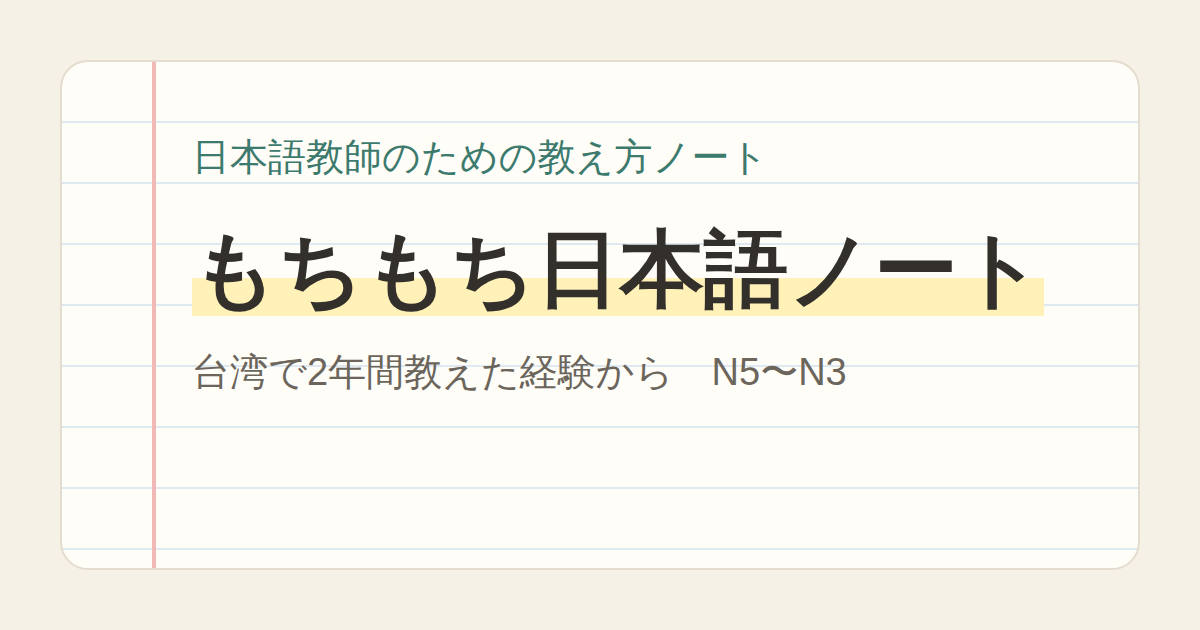
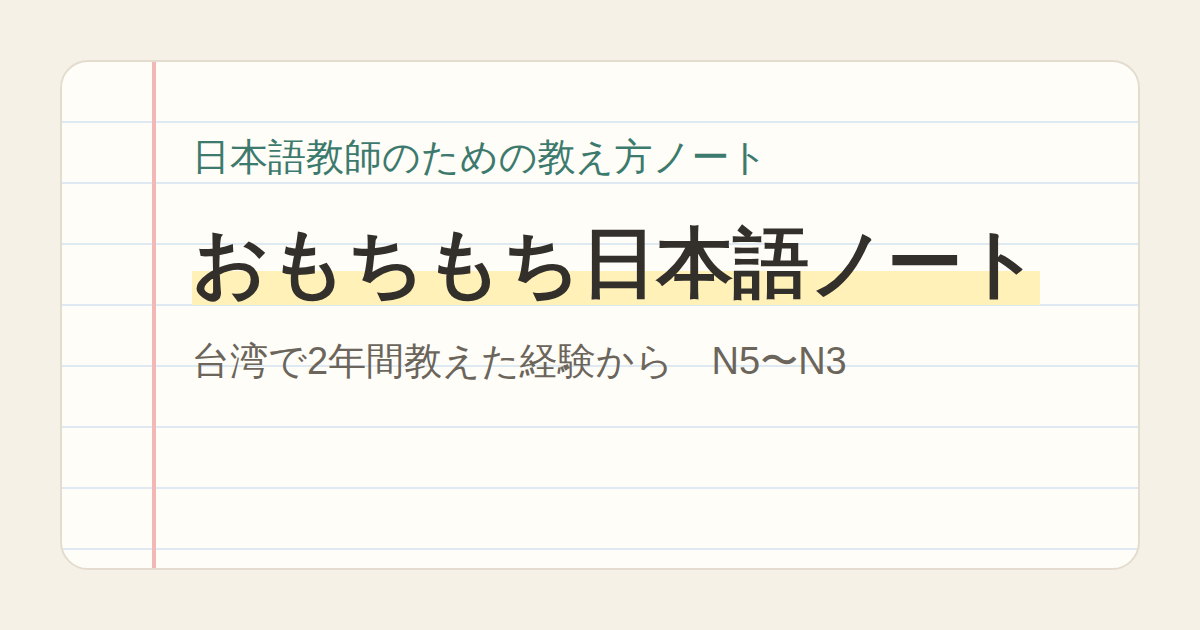
サイト名を「おもちもち日本語ノート」に変更、noteのURLを設定、お問い合わせページを削除
Claude-Session: https://claude.ai/code/session_01T9iH8PFxviiMcQB7m6nUoC

Changed region(s): [[0.1542, 0.3619, 0.8942, 0.5127], [0.1542, 0.5429, 0.555, 0.6333], [0.5858, 0.5429, 0.7092, 0.6333]]

diff --git a/src/config.ts b/src/config.ts
@@ -1,16 +1,14 @@
 // ここを書きかえると、サイト全体に反映されます
 
 export const SITE = {
-  name: 'もちもち日本語ノート',
+  name: 'おもちもち日本語ノート',
   tagline: '台湾で2年間教えた日本語教師の「教え方」ノート',
   description:
     '台湾で2年間日本語を教えた経験から、N5〜N3文法の教え方と、学習者がつまずきやすいポイントを紹介します。新人の先生、海外で教える先生向けのサイトです。',
   author: 'おもち',
   lang: 'ja',
-  // noteのURL（決まったらここに入れる。空のときは「準備中」と表示）
-  noteUrl: '',
-  // お問い合わせフォームのURL（Googleフォームなど。空のときは「準備中」と表示）
-  contactFormUrl: '',
+  // noteのURL（空のときは「準備中」と表示）
+  noteUrl: 'https://note.com/omochimochis_jp',
   // Googleアドセンスのパブリッシャーid（例: ca-pub-1234567890）。空なら広告は出ません
   adsenseClient: '',
 };

diff --git a/README.md b/README.md
@@ -1,4 +1,4 @@
-# もちもち日本語ノート
+# おもちもち日本語ノート
 
 台湾で2年間日本語を教えた日本語教師・おもちのサイトです。
 
@@ -18,7 +18,6 @@
 
 - サイトの名前、説明文
 - `noteUrl`：noteのURL
-- `contactFormUrl`：お問い合わせフォームのURL
 - `adsenseClient`：Googleアドセンスのid
 
 ## 後から足せるもの
